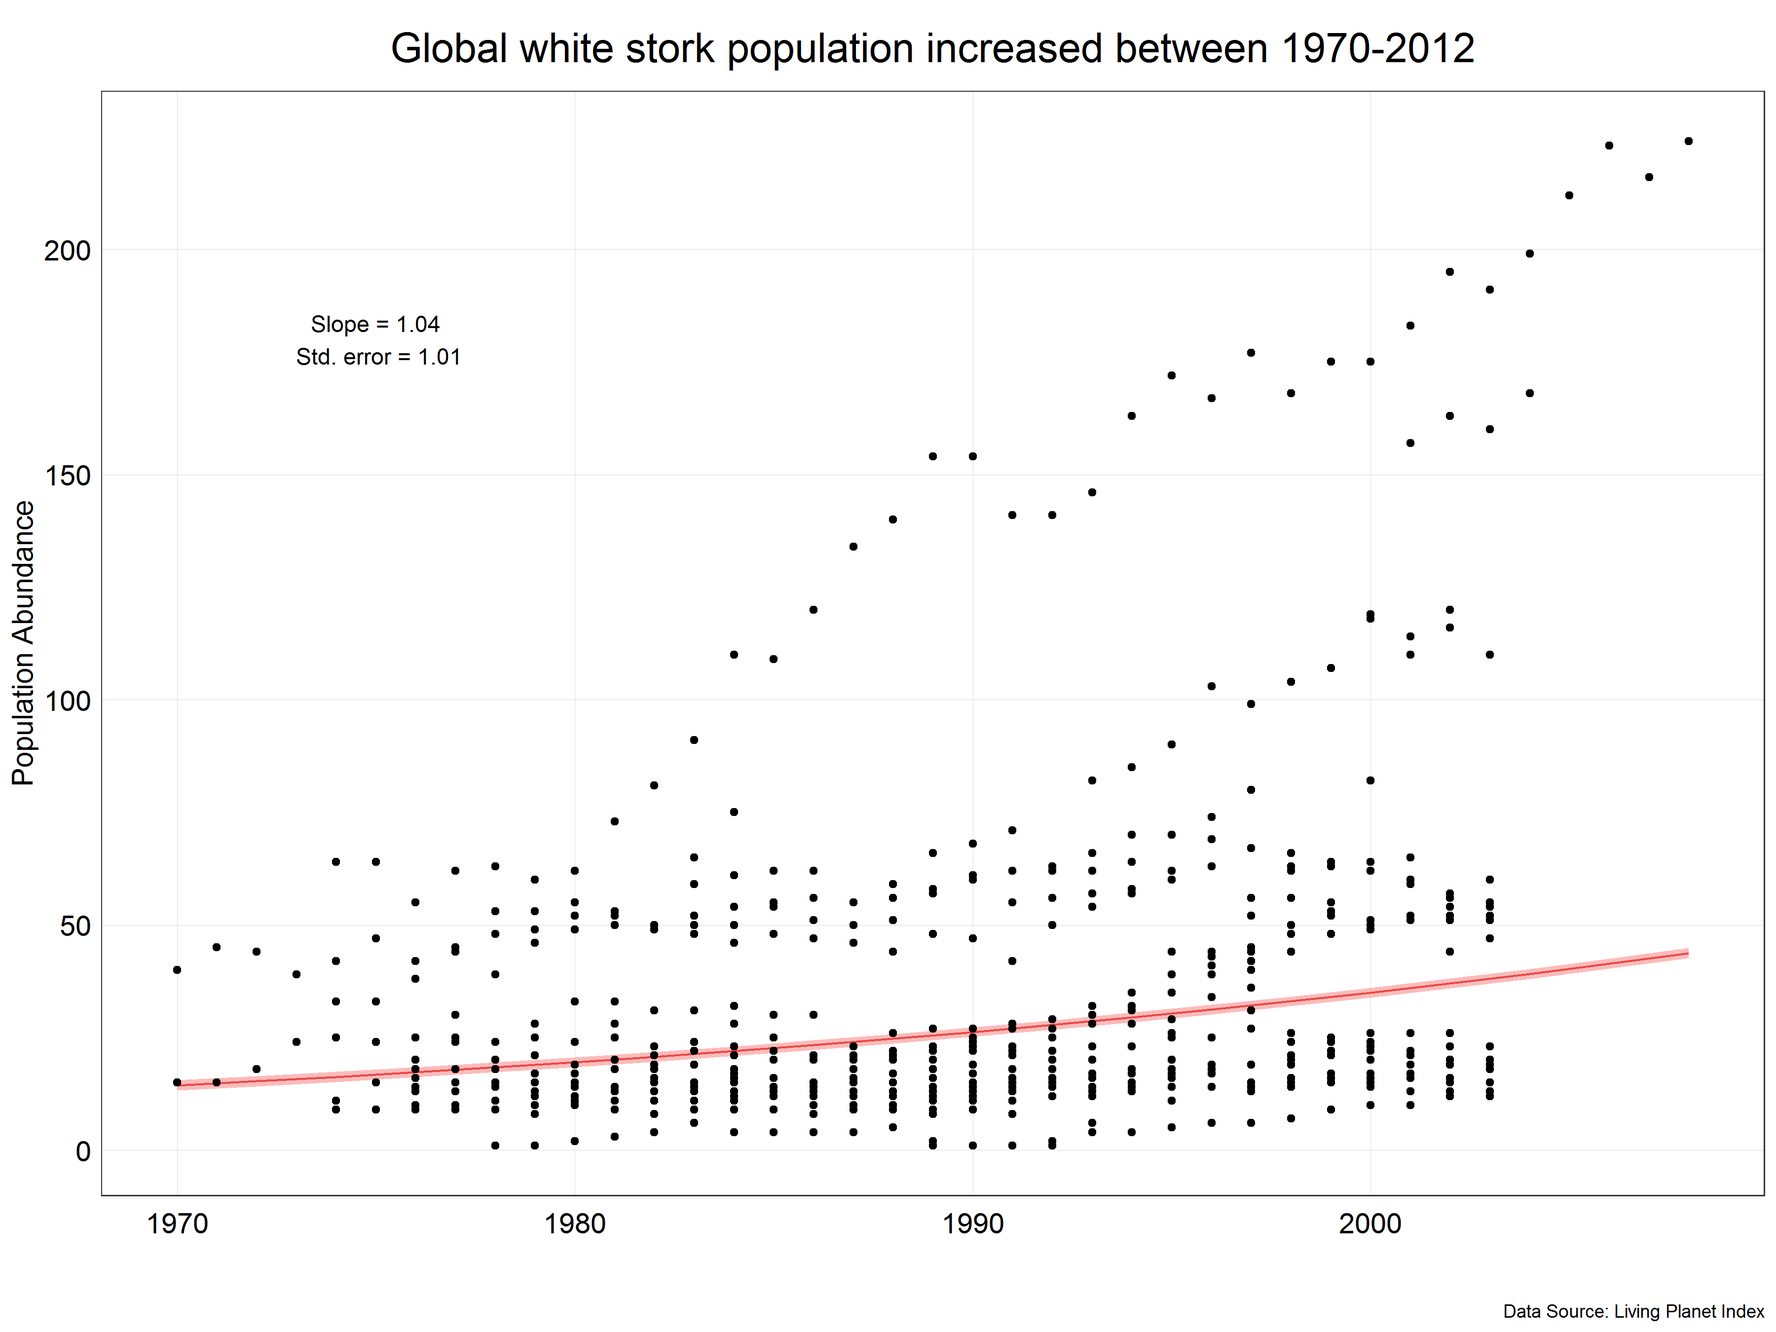
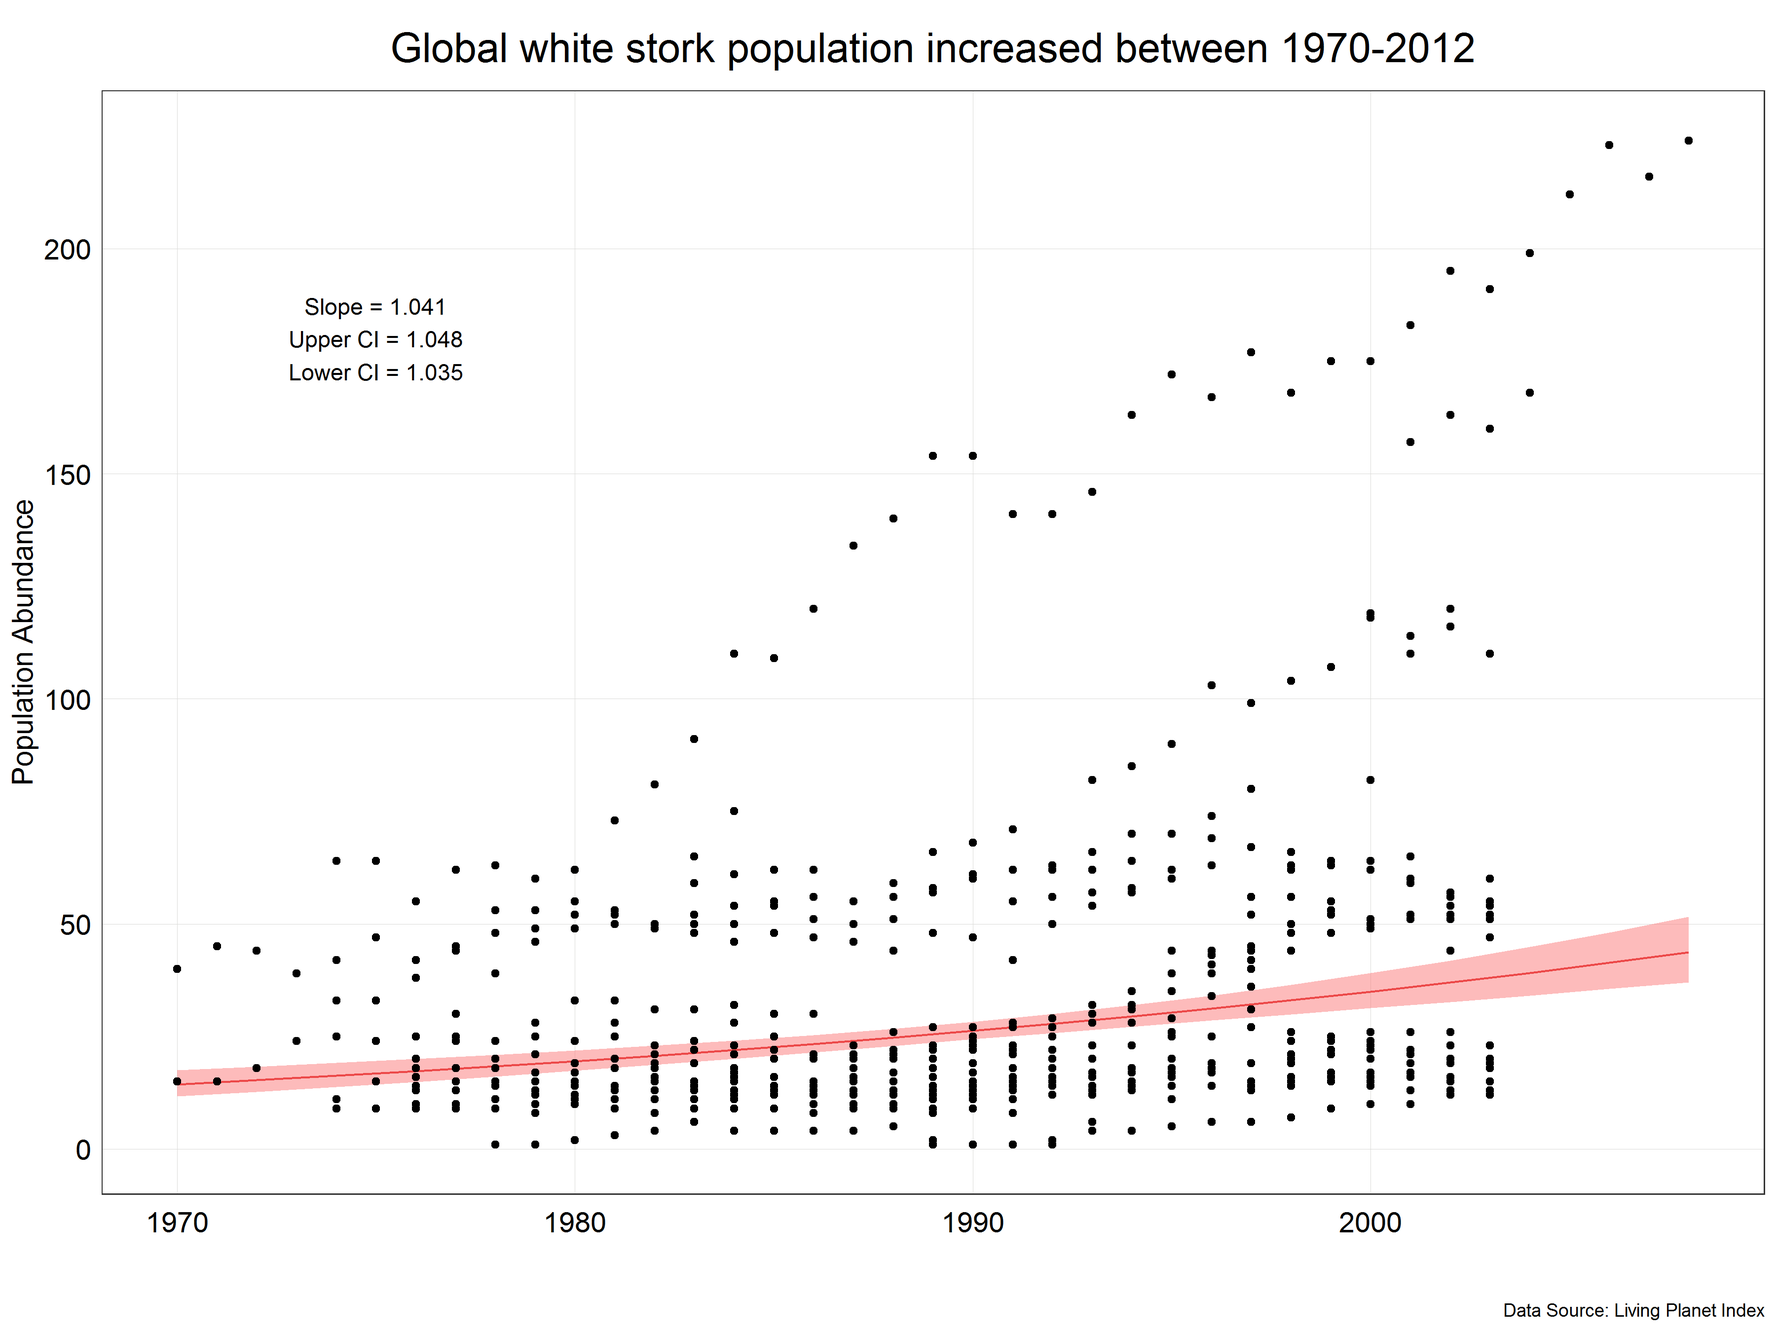
Matus updated backtransformations and added some important figures.

diff --git a/index.md b/index.md
@@ -74,8 +74,9 @@ library(MASS)  # contains boxcox() function
 library(ggeffects)  # model predictions
 
 # Import Data
-load('data/LPI_species.Rdata')
+LPI_species <- read.csv('data/LPI_species.csv', stringsAsFactors = FALSE)  # remember to change the filepath appropriately  
 ```
+
 Now we can look at the basic structure of the dataframe to get some idea of the different variables it contains.
 
 ```r
@@ -138,8 +139,6 @@ plot_theme <- function(...){
     )
 
 }
-
-
 ```
 
 Now we are ready to make some beautiful plots. Let's look at the distribution of the data to get some idea of what the data look like and what model we could use to answer our research question.
@@ -158,7 +157,7 @@ Now we are ready to make some beautiful plots. Let's look at the distribution of
          title = 'Distribution of the white stork population data') +
     plot_theme())  # apply the custom theme
 ```
-<center> <img src="{{ site.baseurl }}/stork_hist.png" alt="Img" style="width: 800px;"/> </center>!
+<center> <img src="{{ site.baseurl }}/stork_hist.png" alt="Img" style="width: 800px;"/> </center>
 
 We can see that our data are very skewed with most of the values being relatively small. This data distribution is far from normal and therefore we cannot use data directly for modelling with linear models which assume normal distribution. This is where transformations come in!
 
@@ -180,7 +179,7 @@ As we can see our data are right-skewed. We can also plot a simple scatter plot 
          title = 'Population abundance of white stork') +
     plot_theme())  # apply the custom theme
 ```
-<center> <img src="{{ site.baseurl }}/stork_scatter.png" alt="Img" style="width: 800px;"/> </center>!
+<center> <img src="{{ site.baseurl }}/stork_scatter.png" alt="Img" style="width: 800px;"/> </center>
 
 This means that we need to apply a **logarithmic transformation** which will **linearize** the data and we will be able to fit linear model. Luckily, this procedure is very simple in R using a base R function `log()` which by default uses **natural logarithm**, i.e. logarithm with base e (Euler's number). The choice of the base for a logarithm is somehow arbitrary but it relates to the 'strength of transformation' which we will cover a bit later in the tutorial. If you wanted to use logarithm with a different base you could either define it in the funcion call like this `log(x, base = 10)` or for some common types use pre-built functions (e.g. `log10(x)` or `log2(x)`). Together with `mutate()` function we can create a new column with the transformed data so that we do not overwrite the original data in case we want to use them later.
 
@@ -200,7 +199,7 @@ stork <- stork %>%
     plot_theme())  # apply the custom theme
 ```   
 
-<center> <img src="{{ site.baseurl }}/stork_scatter_log.png" alt="Img" style="width: 800px;"/> </center>!
+<center> <img src="{{ site.baseurl }}/stork_scatter_log.png" alt="Img" style="width: 800px;"/> </center>
 
 We can see that the data have been constrained to a much narrower range (y-axis) and while there is not a crystal clear linear pattern we could argue that a linear line would fit the best for this scatter plot. Let's have a look at how the data distribution changed by looking at a histogram.
 
@@ -215,7 +214,7 @@ We can see that the data have been constrained to a much narrower range (y-axis)
     plot_theme())
 ```
 
-<center> <img src="{{ site.baseurl }}/stork_log_hist.png" alt="Img" style="width: 800px;"/> </center>!
+<center> <img src="{{ site.baseurl }}/stork_log_hist.png" alt="Img" style="width: 800px;"/> </center>
 
 Now this look much closer to the normal distribution than the previous histogram! You can see the transformation in practice in the animation below.
 
@@ -230,7 +229,8 @@ Our data look quite normally distributed now but we might think that a **weaker*
 
 **Square root transformation** works in a very similar way as logarithmic transformation and is used in similar situations (right-skewed data), however, it is a **weaker** transformation. What do we mean by weaker? Well, to answer this question it is a good idea to look at the graphs describing these mathematical functions.
 
-<center> <img src="{{ site.baseurl }}/log_sqrt_func.png" alt="Img" style="width: 800px;"/> </center>!
+<center> <img src="{{ site.baseurl }}/log_sqrt_func.png" alt="Img" style="width: 800px;"/> </center>
+Source: [StackOverflow](https://stackoverflow.com/questions/42038294/is-complexity-ologn-equivalent-to-osqrtn/42038398)
 
 As you can see the logarithmic function levels off much more quickly which means that it constrains large values much more strongly than square-root. As a result, with log transformation extreme values in the dataset will not have as strong an effect on the resultant distribution. The plots also indicate that square-root transformation has the same disadvantage as log transformation - it can only be used on positive non-zero data.
 
@@ -264,7 +264,7 @@ Box-Cox transformation is a stiatistical procedure developed by Geoerge Box and 
 
 We can see that the transformation is determined by a parameter **lambda** and **if lambda is 0 the transformation is simply log transformation**. Essentially, Box-Cox transformation uses the above equation and different lambda values to test different strengths of transformations and determines at which lambda value the distribution is most normal. It is therefore much more **precise** than just comparing sqrt and log transformations - it tries out many more options! The animation below demonstrates how the different lambda values change the results of transformation.
 
-<center> <img src="{{ site.baseurl }}/animated_boxcox.gif" alt="Img" style="width: 800px;"/> </center>!
+<center> <img src="{{ site.baseurl }}/animated_boxcox.gif" alt="Img" style="width: 800px;"/> </center>
 
 Now let's try to use Box-Cox transformation on our data. To do this we can use `boxcox()` function from `MASS` package which we have loaded earlier. `boxcox()` function takes as an argument either a **model object** or a **model formula** so we will start with building a simple linear model from the original data using `lm()` function looking at how the abundance changed over time (year ~ pop) which is appropriate for our research question. With default values `boxcox()` tests values for lambda in the range (-2, 2) with 0.1 steps so quite a few lambda values!
 
@@ -278,7 +278,7 @@ bc <- boxcox(stork.mod)
 
 After you run the `boxcox()` command a plot like the one below should show up in your plot console.
 
-<center> <img src="{{ site.baseurl }}/boxcox_plot.png" alt="Img" style="width: 400px;"/> </center>
+<center> <img src="{{ site.baseurl }}/boxcox_plot.png" alt="Img" style="width: 800px;"/> </center>
 
 The plot shows the optimal value of the lambda parameter. We can see that for our data it is somewhere around 0.1. To extract the exact optimal value we can use the code below.
 
@@ -298,13 +298,13 @@ stork <- stork %>%
 (stork_hist_bc <- ggplot(data = stork) +
     geom_histogram(aes(x = bcpop),
                    alpha = 0.9,
-                   fill = 'blue') +
+                   fill = '#18a1db') +
     labs(x = 'Value',
          y = 'Density') +
     plot_theme())
 ```
 
-<center> <img src="{{ site.baseurl }}/stork_hist_bc.png" alt="Img" style="width: 800px;"/> </center>!
+<center> <img src="{{ site.baseurl }}/stork_hist_bc.png" alt="Img" style="width: 800px;"/> </center>
 
 We can see that the distribution is very similar to the one we got using the log transformation. This is not surprising since the lambda value we used was approximately 0.1 and lambda = 0 would result in log transformation. You can probably now see that in our situation using the log transformation would be a pretty good approximation to the Box-Cox optimal result.
 
@@ -321,7 +321,7 @@ Before proceeding to model the data we can visually appreciate the differences b
 ```
 <center> <img src="{{ site.baseurl }}/stork_dist_panel.png" alt="Img" style="width: 800px;"/> </center>
 
-## Building models using transformed data and reverting transformations
+## Building models using transformed data and reversing transformations
 {: #trans_lin}
 
 We will now continue to build a model using the transformed data and answer our research question. We will use the Box-Cox transformed data but feel free to use the log transformed data if you want to keep things more simple!
@@ -333,24 +333,9 @@ stork.bc.mod <- lm(bcpop ~ year, data = stork)
 # Show the summary of the model outputs
 summary(stork.bc.mod)
 ```
-<table style="text-align:center"><tr><td colspan="2" style="border-bottom: 1px solid black"></td></tr><tr><td style="text-align:left"></td><td><em>Dependent variable:</em></td></tr>
-<tr><td></td><td colspan="1" style="border-bottom: 1px solid black"></td></tr>
-<tr><td style="text-align:left"></td><td>bcpop</td></tr>
-<tr><td colspan="2" style="border-bottom: 1px solid black"></td></tr><tr><td style="text-align:left">year</td><td>0.041<sup>***</sup></td></tr>
-<tr><td style="text-align:left"></td><td>(0.006)</td></tr>
-<tr><td style="text-align:left"></td><td></td></tr>
-<tr><td style="text-align:left">Constant</td><td>-76.837<sup>***</sup></td></tr>
-<tr><td style="text-align:left"></td><td>(12.291)</td></tr>
-<tr><td style="text-align:left"></td><td></td></tr>
-<tr><td colspan="2" style="border-bottom: 1px solid black"></td></tr><tr><td style="text-align:left">Observations</td><td>547</td></tr>
-<tr><td style="text-align:left">R<sup>2</sup></td><td>0.073</td></tr>
-<tr><td style="text-align:left">Adjusted R<sup>2</sup></td><td>0.072</td></tr>
-<tr><td style="text-align:left">Residual Std. Error</td><td>1.221 (df = 545)</td></tr>
-<tr><td style="text-align:left">F Statistic</td><td>43.116<sup>***</sup> (df = 1; 545)</td></tr>
-<tr><td colspan="2" style="border-bottom: 1px solid black"></td></tr><tr><td style="text-align:left"><em>Note:</em></td><td style="text-align:right"><sup>*</sup>p<0.1; <sup>**</sup>p<0.05; <sup>***</sup>p<0.01</td></tr>
-</table>
+<center> <img src="{{ site.baseurl }}/boxcox_model_summary.png" alt="Img" style="width: 800px;"/> </center>
 
-We can see that the our results are highly significant with the effect size of 0.04 and standard error of 0.006. But what exactly does this mean? Since we have transformed our data we are getting the estimate (effect size) and standard error on the transformed scale, not on the original scale! This might be quite confusing when we present our results. We will therefore **back-transform** our data into the original scale but before that let's have a quick look at the model assumption of normality to see how well our transformed data did compared with the model that would use the original data. We will use so called Q-Q plots for this. If the data are normally distributed, the points in the Q-Q plot should lie on the line.
+We can see that our results are highly significant with the effect size of 0.04 and standard error of 0.006. But what exactly does this mean? Since we have transformed our data we are getting the estimate (effect size) and standard error on the transformed scale, not on the original scale! This might be quite confusing when we present our results. We will therefore **back-transform** our data into the original scale but before that let's have a quick look at the model assumption of normality to see how well our transformed data did compared with the model that would use the original data. We will use so called Q-Q plots for this. If the data are normally distributed, the points in the Q-Q plot should lie on the line.
 
 ```r
 # Tell R to display two plots next to each other
@@ -370,11 +355,11 @@ par(mfrow = c(1, 1))
 
 <center> <img src="{{ site.baseurl }}/qq_plots.png" alt="Img" style="width: 800px;"/> </center>
 
-We can see that while the transformed data are not perfectly aligned with the line, they deviate much less than the original data. We can therefore conclude that the transformed data are a good fit for the normality assumption. We can move to the backtransformations now.
+We can see that while the transformed data are not perfectly aligned with the line, they deviate much less than the original data. We can therefore conclude that the transformed data are a good fit for the normality assumption. We can move to the back-transformations now.
 
 Reversing transformations is essentially applying a function to the transformed data which is the inverse of the operation that was used to do the transformation. The reverse transformations for the procedures we used in this tutorial are listed in the table below together with their functions in R (given they exist).
 
-**insert table here**
+<center> <img src="{{ site.baseurl }}/formulas_table.png" alt="Img" style="width: 800px;"/> </center>
 
 We can verify whether these reverse transformations work by simply applying them on the columns we created earlier and then comparing them with the original `pop` column.
 
@@ -394,39 +379,69 @@ We will use `ggpredict()` function from `ggeffects` package to get predictions a
 # Get the predictions of our model
 stork.pred <- ggpredict(stork.bc.mod, terms = c('year'))
 
+# View the predictions dataframe
+View(stork.pred)
+```
+If we look at the predictions dataframe we can see that it has several predicted values which we will use to plot the prediction line as well as standard error for each prediction and confidence interval values. However, we need to apply the reverse transformation to relevant columns first. You can probably guess that we will apply it to the `predicted` column but we also need to obtain correct error/confidence interval. Here we could easily make a mistake if we chose the `std.error` column. This is because due to the non-linearity of our transformations the error will not be the same on both sides of the line, for example if our effect size in log scale was 0.5 and standard error 0.2 the correct reverse transformation would be exp(0.5) for the effect size and exp(0.7) and exp(0.3), **not** exp(0.5) + exp(0.2) and exp(0.5) - exp(0.2)! These would produce different results. Therefore we need to adjust columns `conf.low` and `conf.high` to get the correct confidence intervals.
+
+```r
 # Apply the reverse transformation on the relevant columns
 stork.pred$predicted <- (stork.pred$predicted*lambda + 1)^(1/lambda)
-stork.pred$std.error <- (stork.pred$std.error*lambda + 1)^(1/lambda)
+stork.pred$conf.low <- (stork.pred$conf.low*lambda + 1)^(1/lambda)
+stork.pred$conf.high <- (stork.pred$conf.high*lambda + 1)^(1/lambda)
 
-# slope
-(0.040557*lambda + 1)^(1/lambda)
-
-# std. error
-(0.006177*lambda + 1)^(1/lambda)
-
-# Plot the predictions
-(stork_plot <- ggplot(stork.pred) +
-   # plot the prediction line with ribbon in red
-   geom_line(aes(x = x, y = predicted), color = '#db1818') +          
-   geom_ribbon(aes(x = x, ymin = predicted - std.error, ymax = predicted + std.error),
-               fill = "#fc7777", alpha = 0.5) +  
-   # plot the original data
-   geom_point(data = stork,                      
-              aes(y = pop, x = year)) +
-   # add the slope and standard error
-   annotate("text", x = 1975, y = 180, label = "Slope = 1.04\n Std. error = 1.01") +
-   labs(x = '',
-        y = 'Population Abundance',
-        title = "Global Stork population increased between 1970-2012",
-        caption = 'Data Source: Living Planet Index') +
-   plot_theme() +
-   xlim(c(1970, 2008))  # limit the x-axis to the year that we have in our dataset
-)
 ```
 
-<center> <img src="{{ site.baseurl }}/stork_plot.png" alt="Img" style="width: 800px;"/> </center>!
+And we can also convert the slope and and confidence intervals from the model summary to include as annotation in our final prediction plot. To make this easier we will first convert the model summary we got into a dataframe using `tidy()` function from the `broom` package. Then, we will extract the slope and standard error and use them to calculate the values in the original scale using back-transformations. 
 
-We can see that the prediction line is not straight but is more of a curve which reflects the fact that we have used transformed data. We have also corrected the slope and standard deviation from the model to correct values.
+```r
+# Convert the summary table into a dataframe
+mod.summary <- tidy(stork.bc.mod)
+
+# slope
+slope <- (mod.summary$estimate[2]*lambda + 1)^(1/lambda)
+slope <- round(slope, 3)
+
+# conf. intervals
+
+# upper
+upper_ci <- ((mod.summary$estimate[2]+mod.summary$std.error[2])*lambda + 1)^(1/lambda)
+upper_ci <- round(upper_ci, 3)
+
+# lower
+lower_ci <- ((mod.summary$estimate[2]-mod.summary$std.error[2])*lambda + 1)^(1/lambda)
+lower_ci <- round(lower_ci, 3)
+```
+
+```r
+# Plot the predictions
+(stork_plot <- ggplot(stork.pred) +
+   geom_line(aes(x = x, y = predicted), color = '#db1818') +  # add the prediction line          
+   geom_ribbon(aes(x = x, ymin = conf.low, ymax = conf.high),  # add the ribbon
+               fill = "#fc7777", alpha = 0.5) +  
+   geom_point(data = stork,  # add the original data                      
+              aes(y = pop, x = year)) +
+   annotate("text", x = 1975, y = 180,  # annotate the plot with slope and CI info
+            label = paste0('Slope = ', as.character(slope),
+                           '\nUpper CI = ', as.character(upper_ci),
+                           '\nLower CI = ', as.character(lower_ci))) +
+   labs(x = '',
+        y = 'Population Abundance',
+        title = "Global white stork population increased between 1970-2008",
+        caption = 'Data Source: Living Planet Index') +
+   plot_theme()  +
+   xlim(c(1970, 2008))
+)
+
+# Save the figure
+ggsave(plot = stork_plot,
+       filename = 'figures/stork_plot.png',
+       width = 12, height = 9, units = 'in')
+```
+
+<center> <img src="{{ site.baseurl }}/stork_plot.png" alt="Img" style="width: 800px;"/> </center>
+
+We can see that the prediction line is not straight but is more of a curve which reflects the fact that we have used transformed data. We have also corrected the slope and confidence intervals from the model to correct values. Now we have a final figure which we could present in a report.
 
 This is the end of the first part of the tutorial. You should now be comfortable using transformations to convert non-normal data into a normal shape, use them in a model and then reverse the transformation to present results in the original units. Next we will look at a different type of data manipulation - scaling.
 
@@ -435,7 +450,7 @@ This is the end of the first part of the tutorial. You should now be comfortable
 
 Scaling describes a set of procedures used to adjust the distribution of the data, particularly its **range** through **linear transformation**. Linear transformation in this context means that it uses only basic arithmetic operations (addition, subtraction, multiplication, division) and not exponentiating or logarithms. You might now ask the question, in what situations we would not use transformations like log and sqrt but use scaling? Imagine that you have a dataset of species abundance measurements where some data were obtained by counts (units = individuals) and others using a population index (no units). The former might be in a range of 1000s while the other will have value from 0 - 1! Is it possible to directly compare the two? Of course not. This is where scaling comes in. It allows us to put two variables on **the same scale** and thus make them **comparable**.  In this tutorial we will cover the two most common types of scaling: **standardization** and **normalization**.   
 
-<center> <img src="{{ site.baseurl }}/scaling_demo.png" alt="Img" style="width: 800px;"/> </center>!
+<center> <img src="{{ site.baseurl }}/scaling_demo.png" alt="Img" style="width: 800px;"/> </center>
 
 ## Standardization
 {: #Standardization}
